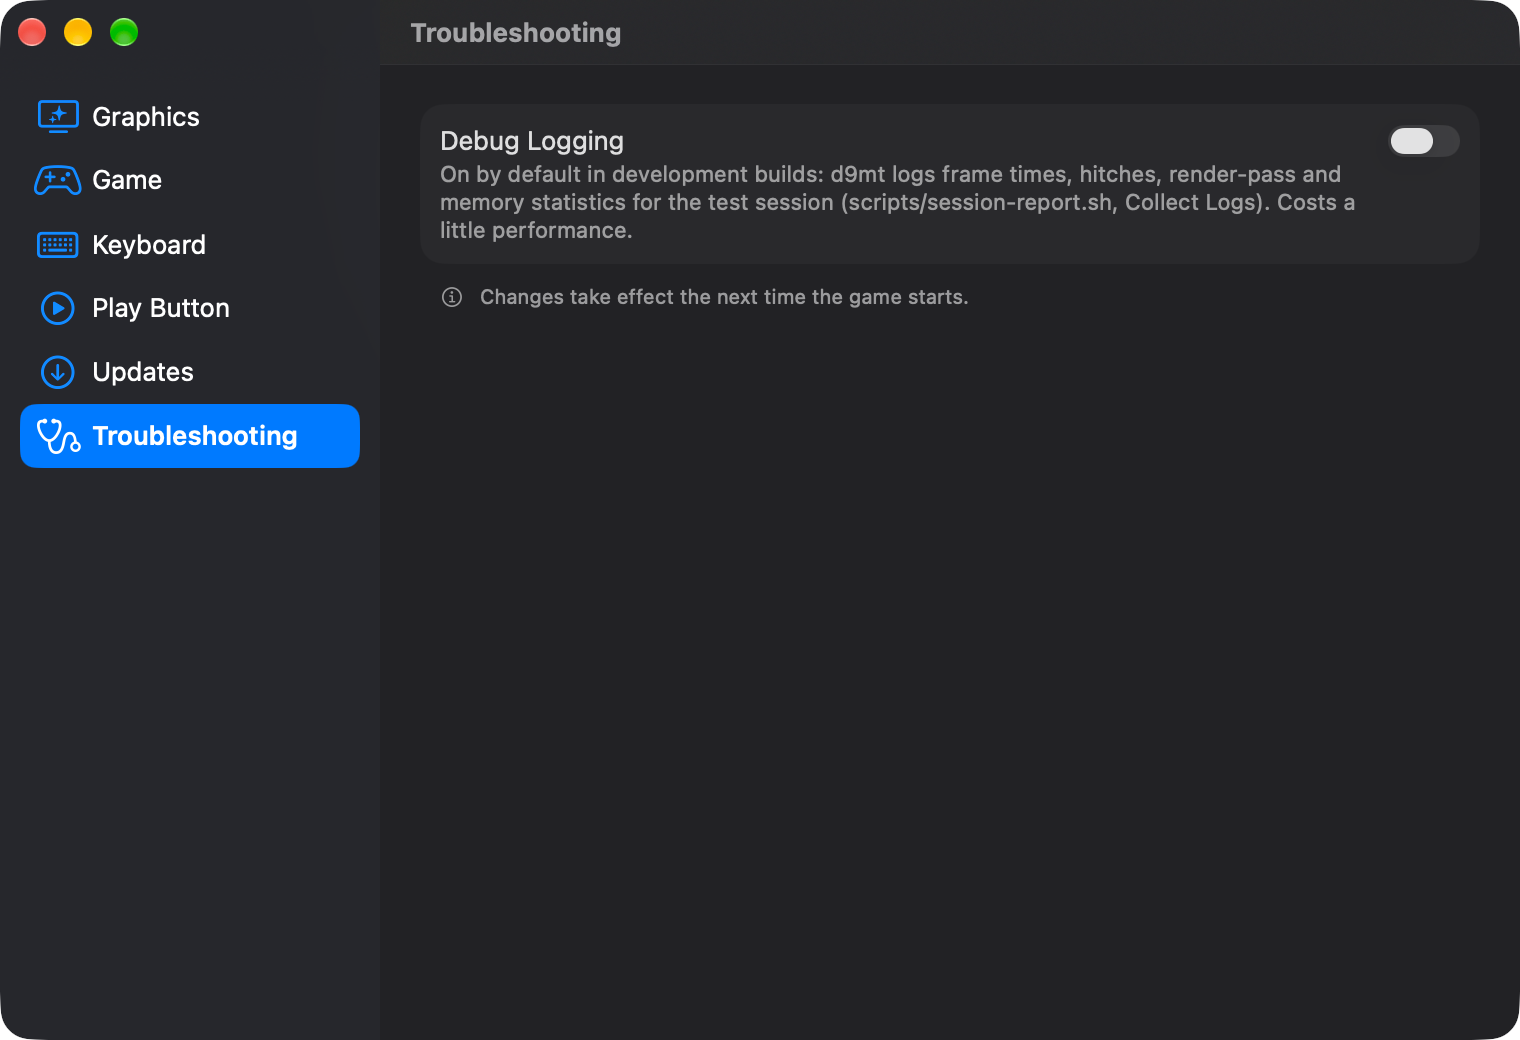
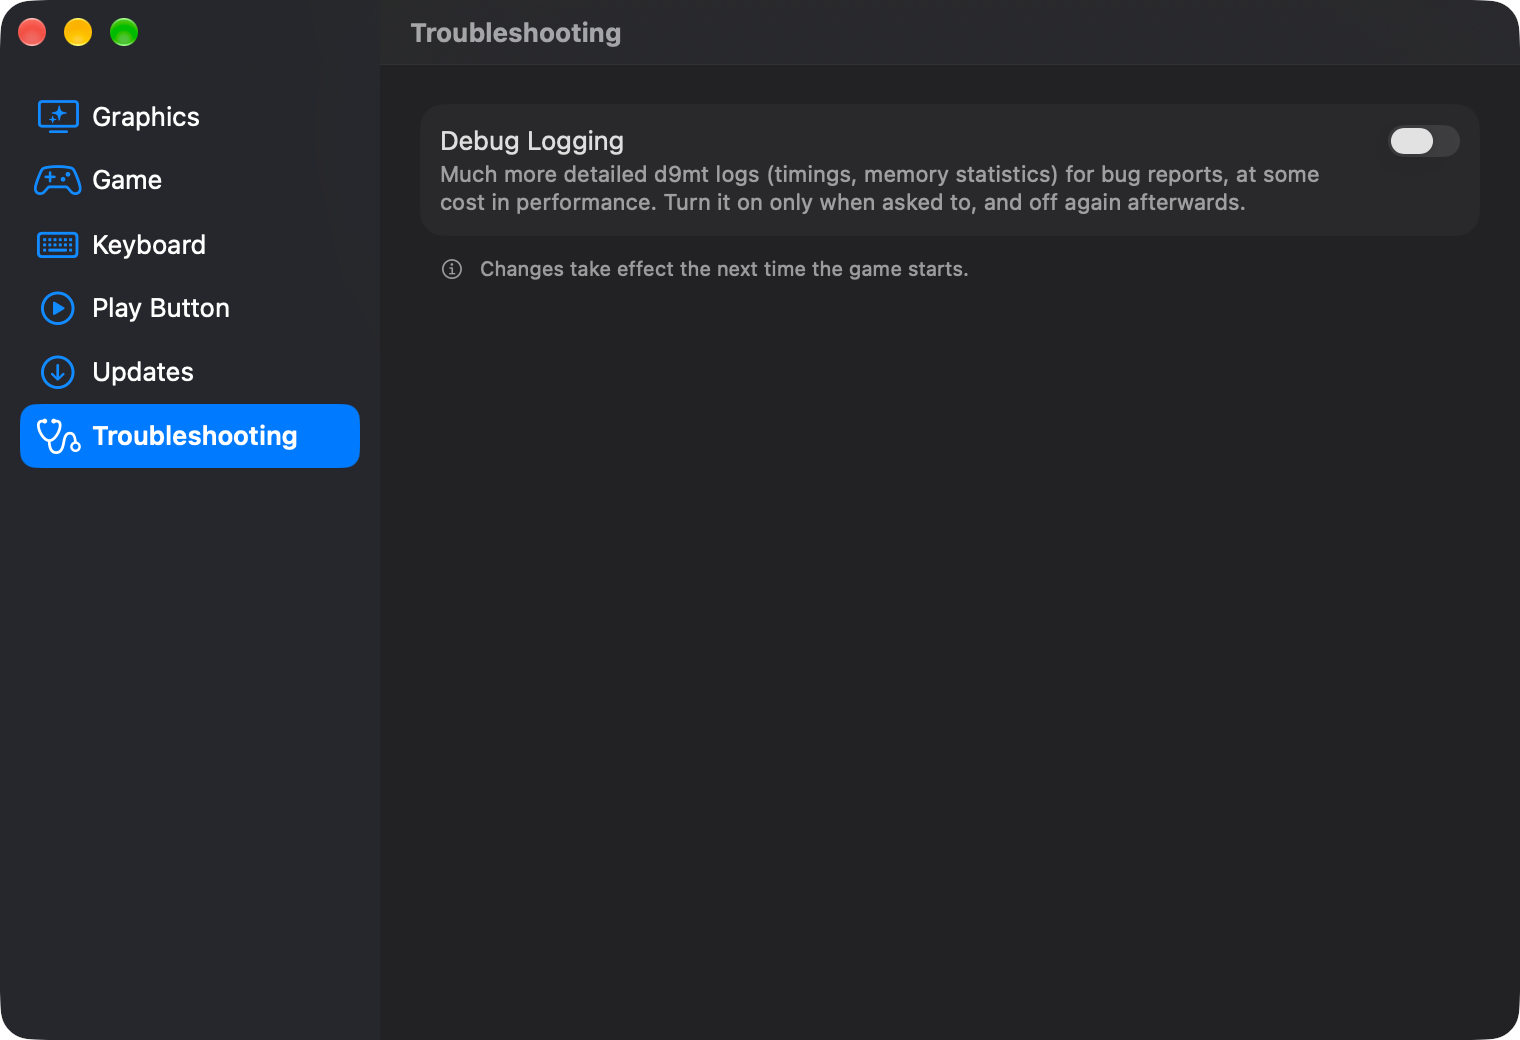
0.0.6: d9mt 68c7190 (main after jdrly/d9mt#5: attachment load/store optimization, STATS/RESTORE logging, LockRect hang fix, opt-in pipeline wait budget; same tree as 9d23889, so d3d9.dll is dev.4's, winemetal.so/.dll byte-identical to 0.0.5's, LC_UUID 2BBB585C-...)
- build.sh: version 0.0.6 (CFBundleVersion 0.0.6, above dev.4's 0.0.5.1004 in Sparkle's
  comparator). Development builds compile their dev-only UI (badge, About line, Settings
  texts) with -D SWTOR_DEV, so a release binary contains none of it.
- README: Settings table by pane, a Debug Logging section (bug reports, session report,
  live d9mt flags) apart from the dev-build notes, d9mt 68c7190; Updates and
  Troubleshooting pane screenshots retaken from the release build.
- THIRD_PARTY_NOTICES, prebuilt/d9mt/VERSION, scripts/build-d9mt.sh: d9mt 68c7190.
- release-notes/0.0.6.md.

Changed region(s): [[0.2783, 0.1538, 0.8967, 0.3077]]

diff --git a/src/native/Settings.swift b/src/native/Settings.swift
@@ -288,32 +288,34 @@ struct SettingsView: View {
 
     case .updates:
       Section {
-        if Updates.isDevBuild {
+        #if SWTOR_DEV
           Toggle(isOn: .constant(false)) {
             Text("Check for updates automatically")
             Text("Off in development builds. SWTOR on Mac > Check for Updates… still offers a newer "
                  + "public version, never an older one.")
           }
           .disabled(true)
-        } else {
+        #else
           Toggle(isOn: settings.toggle("updates")) {
             Text("Check for updates automatically")
             Text("SWTOR on Mac looks for a new version once a day, and so does the game's start (a "
                  + "notification if there is one). Updates install only when you choose to.")
           }
-        }
+        #endif
       }
 
     case .troubleshooting:
       Section {
         Toggle(isOn: settings.toggle("debug")) {
           Text("Debug Logging")
-          Text(Updates.isDevBuild
-               ? "On by default in development builds: d9mt logs frame times, hitches, render-pass and "
-                 + "memory statistics for the test session (scripts/session-report.sh, Collect Logs). "
-                 + "Costs a little performance."
-               : "Much more detailed d9mt logs (timings, memory statistics) for bug reports, at some "
-                 + "cost in performance. Turn it on only when asked to, and off again afterwards.")
+          #if SWTOR_DEV
+          Text("On by default in development builds: d9mt logs frame times, hitches, render-pass and "
+               + "memory statistics for the test session (scripts/session-report.sh, Collect Logs). "
+               + "Costs a little performance.")
+          #else
+          Text("Much more detailed d9mt logs (timings, memory statistics) for bug reports, at some "
+               + "cost in performance. Turn it on only when asked to, and off again afterwards.")
+          #endif
         }
       }
     }

diff --git a/src/native/Updates.swift b/src/native/Updates.swift
@@ -18,7 +18,7 @@
 // For testing, `defaults write cz.jandrly.swtoronmac SWTORUpdateFeedURL <url>` replaces the
 // feed (Sparkle accepts http only on 127.0.0.1/localhost); scripts/test-update.sh does that.
 //
-// Development builds (SWTORChannel dev in Info.plist, version X.Y.Z-dev.N; build.sh) never
+// Development builds (compiled with SWTOR_DEV, SWTORChannel dev in Info.plist, version X.Y.Z-dev.N; build.sh) never
 // check automatically, whatever the setting says; Check for Updates… still works. Their
 // CFBundleVersion sorts between the previous release and X.Y.Z (0.0.6-dev.1 is 0.0.5.1001),
 // so the feed's 0.0.5 is never offered and the public 0.0.6 is.
@@ -31,7 +31,13 @@ import SwiftUI
 final class Updates: NSObject, SPUUpdaterDelegate {
   static let appBundleID = "cz.jandrly.swtoronmac"
   static let feedOverrideKey = "SWTORUpdateFeedURL"
-  static let isDevBuild = (Bundle.main.object(forInfoDictionaryKey: "SWTORChannel") as? String) == "dev"
+  // build.sh compiles development builds with SWTOR_DEV (and writes SWTORChannel dev into
+  // Info.plist for som.sh); release binaries contain none of the dev-only UI.
+  #if SWTOR_DEV
+  static let isDevBuild = true
+  #else
+  static let isDevBuild = false
+  #endif
 
   private(set) var updater: SPUUpdater?
   private var userDriver: UserDriver?

diff --git a/src/native/App.swift b/src/native/App.swift
@@ -463,13 +463,18 @@ enum AppActions {
       text.append(NSAttributedString(string: "\n", attributes: body))
       text.append(NSAttributedString(string: url.replacingOccurrences(of: "https://", with: ""), attributes: attributes))
     }
-    if Updates.isDevBuild {
+    #if SWTOR_DEV
+    do {
       var dev = body
       dev[.font] = NSFont.boldSystemFont(ofSize: NSFont.smallSystemFontSize)
       dev[.foregroundColor] = NSColor.systemPurple
       text.insert(NSAttributedString(string: "Development build: for testing, not a release. "
         + "Debug Logging is on by default; no automatic update checks.\n\n", attributes: dev), at: 0)
     }
+    let devSuffix = " (development build)"
+    #else
+    let devSuffix = ""
+    #endif
     var small = body
     small[.font] = NSFont.systemFont(ofSize: NSFont.labelFontSize - 1)
     small[.foregroundColor] = NSColor.secondaryLabelColor
@@ -477,7 +482,7 @@ enum AppActions {
     NSApp.activate()
     NSApp.orderFrontStandardAboutPanel(options: [
       .applicationName: "SWTOR on Mac",
-      .applicationVersion: (credits["version"] ?? "?") + (Updates.isDevBuild ? " (development build)" : ""),
+      .applicationVersion: (credits["version"] ?? "?") + devSuffix,
       .version: "",
       .credits: text,
     ])

diff --git a/src/native/MainWindow.swift b/src/native/MainWindow.swift
@@ -228,7 +228,9 @@ struct Hero: View {
           HStack(alignment: .firstTextBaseline, spacing: 12) {
             Text("SWTOR on Mac")
               .font(.system(size: 32, weight: .bold, design: .rounded))
-            if Updates.isDevBuild { DevBuildBadge() }
+            #if SWTOR_DEV
+            DevBuildBadge()
+            #endif
           }
           Text("Faster graphics for the official SWTOR Mac app: Direct3D 9 straight to Metal, on a newer Wine.")
             .font(.title3)
@@ -272,6 +274,7 @@ struct Hero: View {
   }
 }
 
+#if SWTOR_DEV
 // "Development build 0.0.6-dev.1" next to the title in development builds (build.sh).
 struct DevBuildBadge: View {
   private var version: String {
@@ -290,6 +293,7 @@ struct DevBuildBadge: View {
       .fixedSize()
   }
 }
+#endif
 
 // Deep space: a slowly drifting mesh gradient (navy, teal, a touch of gold) under a
 // twinkling starfield. Still with Reduce Motion, and paused while the window is not key.

diff --git a/README.md b/README.md
@@ -100,17 +100,17 @@ SWTOR on Mac > **Settings…** (⌘,), while SWTOR on Mac is installed. A sideba
 (Graphics, Game, Keyboard, Play Button, Updates, Troubleshooting; the window opens on the one
 used last) and the selected pane's settings. Changes take effect the next time the game starts.
 
-| Setting | Default | What it changes |
-|---|---|---|
-| Retina Mode | on | Wine's Mac driver `RetinaMode` in the prefix's registry (only while the launcher and the game are closed) |
-| Vsync | on | `d3d9.presentInterval = 1` in `dxvk.conf` (off: unset) |
-| Video Memory Profile | Automatic | `D9MT_MEMORY_PROFILE` (auto, low, medium, high, ultra, unlimited). The video memory the game is told it has: Low 2 GB, Medium 3 GB, High and above 4 GB. Automatic picks by the Mac's memory: 8 GB Low, 16 GB Medium, 24 GB High, more Ultra |
-| Game Mode | on | `SWTOR_GAMEMODE_APP` in `env` |
-| Show Metal HUD | off | `MTL_HUD_ENABLED=1` in `env`. It can't be toggled with a key in the game; turn it on here before starting the game |
-| Game keys by keyboard position | off | The game sees every key by its position on a US keyboard (see below): SWTOR on Mac's build of Wine's Mac driver in its engine and `PhysicalKeyboard=y` for `swtor.exe` in the prefix's registry; off, the engine's own driver (only while the launcher and the game are closed) |
-| Check for updates automatically | on | Sparkle's automatic checks and the daily check at the game's start |
-| Debug Logging | off | `DXVK_LOG_LEVEL=info`, `D9MT_PROFILE=1`, `D9MT_MEMSTATS=1`, `D9MT_DEBUG_FILE=C:\d9mt\flags.txt` (d9mt's live debug flags, below; else `DXVK_LOG_LEVEL=warn`) |
-| Quit SWTOR on Mac after launching | off | The app quits once **Play SWTOR** has opened the official app (the app's own preference) |
+| Pane | Setting | Default | What it changes |
+|---|---|---|---|
+| Graphics | Retina Mode | on | Wine's Mac driver `RetinaMode` in the prefix's registry (only while the launcher and the game are closed) |
+| Graphics | Vsync | on | `d3d9.presentInterval = 1` in `dxvk.conf` (off: unset) |
+| Graphics | Video Memory Profile | Automatic | `D9MT_MEMORY_PROFILE` (auto, low, medium, high, ultra, unlimited). The video memory the game is told it has: Low 2 GB, Medium 3 GB, High and above 4 GB. Automatic picks by the Mac's memory: 8 GB Low, 16 GB Medium, 24 GB High, more Ultra |
+| Game | Game Mode | on | `SWTOR_GAMEMODE_APP` in `env` |
+| Game | Show Metal HUD | off | `MTL_HUD_ENABLED=1` in `env`. It can't be toggled with a key in the game; turn it on here before starting the game |
+| Keyboard | Game keys by keyboard position | off | The game sees every key by its position on a US keyboard (see below): SWTOR on Mac's build of Wine's Mac driver in its engine and `PhysicalKeyboard=y` for `swtor.exe` in the prefix's registry; off, the engine's own driver (only while the launcher and the game are closed) |
+| Updates | Check for updates automatically | on | Sparkle's automatic checks and the daily check at the game's start |
+| Troubleshooting | Debug Logging | off | `DXVK_LOG_LEVEL=info`, `D9MT_PROFILE=1`, `D9MT_MEMSTATS=1`, `D9MT_DEBUG_FILE=C:\d9mt\flags.txt` (d9mt's live debug flags, below; else `DXVK_LOG_LEVEL=warn`) |
+| Play Button | Quit SWTOR on Mac after launching | off | The app quits once **Play SWTOR** has opened the official app (the app's own preference) |
 
 They are kept in `~/Library/Application Support/SWTOR on Mac/settings.conf`; `env` and
 `dxvk.conf` are made from it (`som.sh settings`, `som.sh set <key> <value>`). *Quit SWTOR on
@@ -156,6 +156,13 @@ they differ from releases in three ways:
   `0.0.6-dev.N` is `0.0.5.(1000+N)`. So the feed's 0.0.5 is never offered as an update, and the
   public 0.0.6 is offered once it is out. `CFBundleShortVersionString` stays `0.0.6-dev.N`.
 
+### Debug Logging, session reports and live d9mt flags
+
+For a bug report about stutter or frame rate: turn on Settings > Troubleshooting > **Debug
+Logging**, start the game, play the part that misbehaves, quit, then use **Collect Logs…** (it
+includes the session report below). Turn Debug Logging off again afterwards: it costs a little
+performance. A setting you choose is kept through updates and Reinstall.
+
 **Session report.** `"/Applications/SWTOR on Mac.app/Contents/Resources/session-report.sh"`
 (`scripts/session-report.sh`) sums up the last game session from
 `~/Library/Logs/SWTOR on Mac/wine.log`:
@@ -163,10 +170,10 @@ they differ from releases in three ways:
 - frames over 33 ms and 50 ms;
 - hitches, split into d9mt's and the game's, and d9mt's top causes;
 - compile waits and the memory peak;
-- render passes and the attachment traffic d9mt saved, and (0.0.6-dev.3 and later) the
+- render passes and the attachment traffic d9mt saved, and (0.0.6 and later) the
   render thread's CPU time in that optimization and the clears per frame, to tell its cost
   apart from compile waits (a cold shader cache);
-- the attachment re-clears by cause, from the `RESTORE` lines (d9mt 0.0.6-dev.2 and later):
+- the attachment re-clears by cause, from the `RESTORE` lines (0.0.6 and later):
   image format and size, the aspects re-cleared, why and the D3D9 call, per frame.
 
 `wine.log` starts afresh at every game start, so `--keep` saves a copy to `sessions/`.
@@ -468,7 +475,7 @@ For the first release that is `git tag v0.0.1 && git push origin main v0.0.1`, t
[3 lines of base64/hex data omitted]
-| d9mt `7975e2e` (bundled, `prebuilt/d9mt`) | [jdrly/d9mt](https://github.com/jdrly/d9mt/tree/7975e2ea6a90493b2c565c75e4fd92bf73f986c6) | see `prebuilt/d9mt` |
+| d9mt `68c7190` (bundled, `prebuilt/d9mt`) | [jdrly/d9mt](https://github.com/jdrly/d9mt/tree/68c7190d670d199227513b02a792ecbad5e43571) | see `prebuilt/d9mt` |
[1 lines of base64/hex data omitted]
 
 ## Credits and licenses

diff --git a/THIRD_PARTY_NOTICES.md b/THIRD_PARTY_NOTICES.md
@@ -14,8 +14,8 @@ SWTOR on Mac: they come from the official install from [swtor.com](https://www.s
 
 | Component | Where in the app | License | License text in the app |
 |---|---|---|---|
-| **d9mt** `9d23889`, <https://github.com/jdrly/d9mt> (Jan Drlý's fork of neo773's [d9mt-v2](https://github.com/neo773/d9mt-v2), with code from DXVK) | `Contents/Resources/d9mt/d3d9.dll` | zlib/libpng | `Resources/Licenses/d9mt/LICENSE` |
-| **d9mt's winemetal bridge** (derived from [DXMT](https://github.com/3Shain/dxmt)'s `src/winemetal`; includes Wine's `unixlib.h`) | `Contents/Resources/d9mt/winemetal.so`, `winemetal.dll` | LGPL-2.1-or-later. Complete source: [`bridge/` at d9mt `9d23889`](https://github.com/jdrly/d9mt/tree/9d238892216c2d533f2357bf9fb2733ee613befb/bridge) | `Resources/Licenses/d9mt/bridge/LICENSE`, `COPYING.LIB` |
+| **d9mt** `68c7190`, <https://github.com/jdrly/d9mt> (Jan Drlý's fork of neo773's [d9mt-v2](https://github.com/neo773/d9mt-v2), with code from DXVK) | `Contents/Resources/d9mt/d3d9.dll` | zlib/libpng | `Resources/Licenses/d9mt/LICENSE` |
+| **d9mt's winemetal bridge** (derived from [DXMT](https://github.com/3Shain/dxmt)'s `src/winemetal`; includes Wine's `unixlib.h`) | `Contents/Resources/d9mt/winemetal.so`, `winemetal.dll` | LGPL-2.1-or-later. Complete source: [`bridge/` at d9mt `68c7190`](https://github.com/jdrly/d9mt/tree/68c7190d670d199227513b02a792ecbad5e43571/bridge) | `Resources/Licenses/d9mt/bridge/LICENSE`, `COPYING.LIB` |
 | Inside d9mt's binaries: DXVK (zlib/libpng), dxbc-spirv (MIT), LLVM 15.0.7 (Apache-2.0 WITH LLVM-exception, with its regex and ConvertUTF notices), mingw-w64 runtime and winpthreads (ZPL-2.1 / MIT-style / BSD) | as above | see d9mt's notices | `Resources/Licenses/d9mt/THIRD_PARTY_NOTICES.md`, `Resources/Licenses/d9mt/LICENSES/` |
 | **Sparkle** 2.10.0, <https://sparkle-project.org> (app updates; with bsdiff, sais, and other notices) | `Contents/Frameworks/Sparkle.framework` | MIT | `Resources/Licenses/sparkle/LICENSE` |
 | **Wine's Mac driver** (`dlls/winemac.drv`, x86_64 unix side) from CodeWeavers' [CrossOver 24.0.7 sources](https://media.codeweavers.com/pub/crossover/source/crossover-sources-24.0.7.tar.gz) (sha256 `56749e92…2e4e`, <https://www.codeweavers.com/crossover/source>), changed by SWTOR on Mac's [`patches/winemac-physical-keys.patch`](patches/winemac-physical-keys.patch) (the PhysicalKeyboard option) and built by [`scripts/build-winemac.sh`](scripts/build-winemac.sh) | `Contents/Resources/wine/winemac.so` | LGPL-2.1-or-later. Complete source: those CrossOver sources plus the patch (also in the app) | `Resources/Licenses/winemac/COPYING.LIB`, `LICENSE`, `winemac-physical-keys.patch` |

diff --git a/release-notes/0.0.6.md b/release-notes/0.0.6.md
@@ -1,0 +1,28 @@
+## SWTOR on Mac 0.0.6
+
+Less GPU memory traffic, a new Settings window, and better logs for bug reports.
+
+- **Less GPU memory traffic** (d9mt `68c7190`). The graphics driver no longer reads and writes
+  every render target in full for every part of a frame when it doesn't have to. That saves
+  roughly 0.6 to 1 GB of memory traffic per frame in busy scenes. It helps most on M1, M2 and
+  M3 Macs with high shadow quality or anti-aliasing. The game looks exactly the same.
+- **A new Settings window.** A sidebar lists the sections (Graphics, Game, Keyboard, Play
+  Button, Updates, Troubleshooting), as in System Settings. The window fits on any screen, can
+  be resized, and opens on the section you used last. Every setting is still there.
+- **Better logs for stutter reports.** With Settings > Troubleshooting > *Debug Logging* on,
+  the log now records frame times, slow frames and shader compiles once a second, and
+  *Collect Logs…* adds a short summary of your last game session. Leave Debug Logging off
+  unless you're reporting a problem: it costs a little performance.
+
+After updating, open SWTOR on Mac and click *Update to 0.0.6* in the window (with the game
+closed), as after every update, so the game uses the new graphics driver.
+
+The compiled-shader cache is kept, so there should be no extra stutter after the update. If
+the first few minutes in a new area do stutter, the cache is being rebuilt; that settles by
+itself.
+
+### Support
+SWTOR on Mac is an unofficial project, not made, endorsed or supported by Broadsword Games, EA,
+Lucasfilm or Disney, and you use it at your own risk. Please send questions and bug reports to
+Pharaphobia on Discord or as a [GitHub issue](https://github.com/jdrly/swtor-on-mac/issues),
+never to Broadsword or SWTOR customer support.
